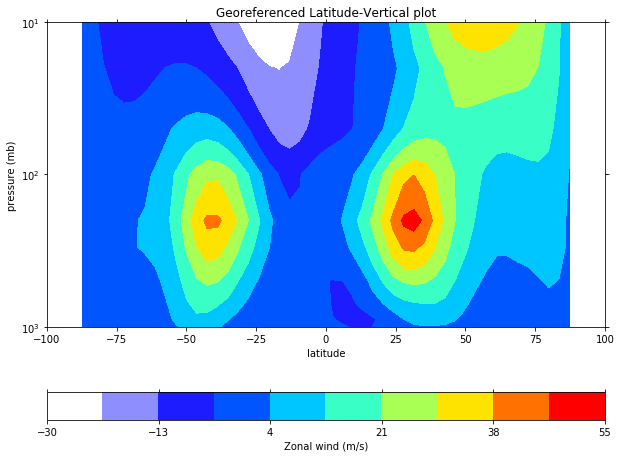
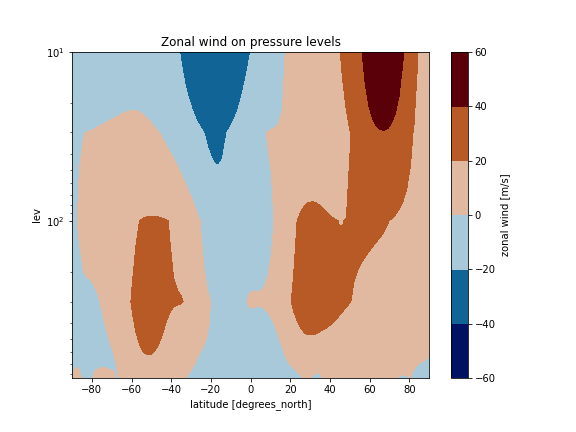
update vertical interpolation in episode 6

diff --git a/_episodes/06-vertical_interpolation.md b/_episodes/06-vertical_interpolation.md
@@ -3,7 +3,7 @@ title: "From hybrid sigma-pressure (model) levels to pressure levels"
 teaching: 0
 exercises: 0
 questions:
-- "How to interpolate pressure levels?"
+- "How to interpolate data to pressure levels?"
 objectives:
 - "Learn to interpolate data to pressure levels"
 keypoints:
@@ -17,10 +17,6 @@ keypoints:
 
 PyNGL (Python NCL Graphics Library) is a python interface with the same core graphics as NCL (NCAR Command Language) for visualization and data processing.
 
-PyNIO (Python Interface for Geoscientific Data Input/Output) is a python package that allows read and/or write access to a variety of data formats using an interface modeled on netCDF.
-
-Note: These PyNGL & PyNIO libraries are still under development and therefore not yet fully operational (i.e., not all the functionalities were implemented).
-
 In this section we are going to use [Ngl.vinth2p](https://www.pyngl.ucar.edu/Functions/Ngl.vinth2p.shtml). 
 
 - This PyNGL function interpolates CESM hybrid coordinates (i.e., model levels) to pressure coordinates.
@@ -32,67 +28,85 @@ In this section we are going to use [Ngl.vinth2p](https://www.pyngl.ucar.edu/Fun
   - If the input data (i.e., to be interpolated) is on midlevels, then hyam/hybm coefficients should be supplied; 
   - If the input data is on interfaces, then hyai/hybi coefficients should be supplied.
 
-Warning: the unit for psrf *(the surface pressure at each grid point)* is **Pascals (Pa)** whereas the unit for pnew *(lists of output pressure levels)* and p0 *(scalar value equal to surface reference pressure)* is **millibars (mb)**. 
+
+> ## Warning
+> The unit for psrf *(the surface pressure at each grid point)* is **Pascals (Pa)** whereas the unit for pnew *(lists of output pressure levels)* and p0 *(scalar value equal to surface reference pressure)* is **millibars (mb)**. 
+>
+{: .callout}
 
 ~~~
+# Python package that makes working with labelled multi-dimensional arrays simple and efficient
 import Ngl
-import Nio
 import os
 import xarray as xr
 import numpy as np
-import matplotlib as mpl
-
-# python package for plotting maps, 2D plot, etc.
-import psyplot.project as psy
-
-# the next line is only necessary when running within a Jupyter notebook
-# and allows to inline plots in the Jupyter notebook
+import cartopy.crs as ccrs
+import matplotlib.pyplot as plt
 %matplotlib inline
 
-# Set figure size for all our plots
-mpl.rcParams['figure.figsize'] = [10., 8.]
-# get your username from the environment variable USER
-username = os.getenv('USER')
-# specify the path where your test simulation is stored
-path = '/opt/uio/GEO4962/' + username + '/f2000.T31T31.test/atm/hist/'
-filename = path + 'f2000.T31T31.test.cam.h0.0009-01.nc'
+path = 'shared-ns1000k/GEO4962/outputs/runs/F2000climo.f19_g17.control/atm/hist/'
+filename = path + 'F2000climo.f19_g17.control.cam.h0.0009-01.nc'
 print(filename)
 
-#  Open the netCDF file containing the input data.
-cfile = Nio.open_file(filename,"r")
+# load netcdf file into an xarray dataset
+ds = xr.open_dataset(filename, decode_times=True)
+
+#  Extract the desired variables (need numpy arrays for vertical interpolation)
+hyam = ds["hyam"][:]
+hybm = ds["hybm"][:]
+T    = (ds["T"][:,:,:,:])
+psrf = (ds["PS"][:,:,:])
+P0mb =  0.01*ds["P0"].values
+
+lats = ds["lat"][:]
+lons = ds["lon"][:]
 
 #  Define the output pressure levels.
 pnew = [850.]
-
-#  Extract the desired variables.
-hyam = cfile.variables["hyam"][:]
-hybm = cfile.variables["hybm"][:]
-T    = (cfile.variables["T"][:,:,:,:])
-psrf = (cfile.variables["PS"][:,:,:])
-P0mb =  0.01*cfile.variables["P0"].get_value()
-
-lats = cfile.variables["lat"][:]
-lons = cfile.variables["lon"][:]
-
 #  Do the interpolation.
 intyp = 1                              # 1=linear, 2=log, 3=log-log
 kxtrp = False                          # True=extrapolate (when the output pressure level is outside of the range of psrf)
   
+# Vertical interpolation
+
 Tnew = Ngl.vinth2p(T,hyam,hybm,pnew,psrf,intyp,P0mb,1,kxtrp)
 
 Tnew[Tnew==1e30] = np.NaN
 
-T850=xr.Dataset({'T850': (('lats','lons'), Tnew[0,0,:,:])},
-                {'lons':  lons, 'lats':  lats})
+# Create new xarray Dataset
 
-# plot using psyplot
+dset_p = xr.Dataset({'T850': (('lat','lon'), Tnew[0,0,:,:])},
+                  {'lon':  lons, 'lat':  lats})
+dset_p.T850.attrs['units'] = 'K'
+dset_p.T850.attrs['long_name'] = "Temperature"
+dset_p.T850.attrs['standard_name'] = 'T'
 
-psy.plot.mapplot(T850, name='T850', title='Temperature (K) at 850 mb')
+# Plotting
+fig = plt.figure(figsize=(15, 5))
+ax = plt.axes(projection=ccrs.PlateCarree())
+
+dset_p.T850.plot(ax=ax, 
+           transform=ccrs.PlateCarree(),
+	   cmap=load_cmap('vik'))
+
+ax.coastlines()
+plt.title(ds.time.values[0].strftime("%B year %Y"))
 ~~~
 {: .language-python}
 
 <img src="../fig/T_F2000_CAM5_T31T31_test-0009-01_850mb.png">
 
+
+> ## Loading colormaps
+> In your jupyter notebook, you can load additional/customized colormap using the following statment:
+> ~~~
+> %run load_cmap.py
+> ~~~
+> {: .language-bash}
+>
+> with [load_cmap.py](https://raw.githubusercontent.com/NordicESMhub/GEO4962/gh-pages/code/load_cmap.py).
+>
+{: .callout}
 
 > ## Create a map plot for the zonal wind (U) at **850 mb**
 > 
@@ -100,22 +114,36 @@ psy.plot.mapplot(T850, name='T850', title='Temperature (K) at 850 mb')
 >
 > > ## Solution
 > > ~~~
-> > import xarray as xr
-> > import numpy as np
-> >  
 > > pnew = [850.]
+> >
+> > #  Do the interpolation.
+> > intyp = 1                              # 1=linear, 2=log, 3=log-log
+> > kxtrp = False                          # True=extrapolate (when the output pressure level is outside of the range of psrf)
+> >   
+> > U    = (ds["U"][:,:,:,:])
 > > 
-> > U    = (cfile.variables["U"][:,:,:,:])
 > > UonP = Ngl.vinth2p(U,hyam,hybm,pnew,psrf,intyp,P0mb,1,kxtrp)
-> >  
+> >    
 > > ntime, output_levels, nlat, nlon = UonP.shape
 > > 
 > > UonP[UonP==1e30] = np.NaN
-> > U850=xr.Dataset({'U850': (('lat','lon'), UonP[0,0,:,:])},
-> >                 {'lat':  lats, 'lon':  lons})
 > > 
-> > # plot using psyplot
-> > psy.plot.mapplot(U850, name='U850', title='Zonal wind (m/s) at 850 mb')
+> > dset_p=xr.Dataset({'U850': (('lat','lon'), UonP[0,0,:,:])},
+> >                   {'lat':  lats, 'lon':  lons})
+> > dset_p.U850.attrs['units'] = 'm/s'
+> > dset_p.U850.attrs['long_name'] = "zonal wind"
+> > dset_p.U850.attrs['standard_name'] = 'U'
+> > fig = plt.figure(figsize=(15, 5))
+> > ax = plt.axes(projection=ccrs.PlateCarree())
+> > 
+> > dset_p.U850.plot(ax=ax, 
+> >            transform=ccrs.PlateCarree(),
+> >            cmap=load_cmap('broc') 
+> >            )
+> > 
+> > ax.coastlines()
+> > plt.title(ds.time.values[0].strftime("%B year %Y"))
+> > 
 > > ~~~
 > > {: .language-python}
 > >
@@ -136,7 +164,7 @@ import xarray as xr
 import numpy as np
 import matplotlib.pyplot as plt
 
-pnew = [1000., 900., 850., 700., 600, 500., 400., 300., 100., 30., 10.]
+pnew = [850., 700., 600, 500., 400., 300., 100., 30., 10.]
 
 intyp = 1                             # 1=linear, 2=log, 3=log-log
 kxtrp = True                          # True=extrapolate
@@ -144,7 +172,6 @@ kxtrp = True                          # True=extrapolate
 UonP = Ngl.vinth2p(U,hyam,hybm,pnew,psrf,intyp,P0mb,1,kxtrp)
 
 ntime, output_levels, nlat, nlon = UonP.shape
-
 ~~~
 {: .language-python}
 
@@ -160,22 +187,22 @@ UonP[UonP==1e30] = np.NaN
 print(UonP.mean(axis=3).shape,lats.shape)
 Umean=xr.Dataset({'U': (('lev','lat'), UonP.mean(axis=3)[0,:,:])},
                  {'lev':  np.asarray(pnew), 'lat':  lats})
+Umean.U.attrs['units'] = 'm/s'
+Umean.U.attrs['long_name'] = "zonal wind"
+Umean.U.attrs['standard_name'] = 'U'
 ~~~
 {: .language-python}
 		
 We can now plot *Umean*:
 
 ~~~
-psy.plot.plot2d(Umean, name='U', plot='contourf', 
-                title="Georeferenced Latitude-Vertical plot", 
-                clabel="Zonal wind (m/s)",
-                xlabel='latitude',
-                ylabel='pressure (mb)')
-                
+fig = plt.figure(figsize=(8, 6))
+Umean.U.plot.contourf(cmap=load_cmap('vik'))
 plt.ylim(plt.ylim()[::-1])
-plt.yscale('symlog')
-plt.ylim(bottom=1000)
-plt.ylim(top=10)
+plt.yscale('log')
+plt.ylim(top=10.)
+plt.ylim(bottom=850.)
+plt.title("Zonal wind on pressure levels")
 ~~~
 {: .language-python}
 
@@ -200,23 +227,28 @@ plt.ylim(top=10)
 > > 
 > > intyp = 1                             # 1=linear, 2=log, 3=log-log
 > > kxtrp = True                          # True=extrapolate
-> >
+> > 
 > > Tnew = Ngl.vinth2p(T,hyam,hybm,pnew,psrf,intyp,P0mb,1,kxtrp)
 > > 
 > > ntime, output_levels, nlat, nlon = Tnew.shape
 > > 
 > > Tnew[Tnew==1e30] = np.NaN
-> >
+> > 
 > > Tmean=xr.Dataset({'T': (('lev','lat'), Tnew.mean(axis=3)[0,:,:])},
 > >                  {'lev':  np.asarray(pnew), 'lat':  lats})
+> > Tmean.T.attrs['units'] = 'K'
+> > Tmean.T.attrs['long_name'] = "Temperature"
+> > Tmean.T.attrs['standard_name'] = 'T'
 > > 
-> > psy.plot.plot2d(Tmean, name='T', plot='contourf')
+> > fig = plt.figure(figsize=(8, 6))
+> > Tmean.T.plot.contourf(cmap=load_cmap('vik'))
 > > # Invert vertical axis
 > > plt.ylim(plt.ylim()[::-1])
 > > plt.ylim(top=10.)
-> > plt.ylim(bottom=900.)
+> > plt.ylim(bottom=850.)
 > > plt.xlim(left=-90)
 > > plt.xlim(right=90)
+> > plt.title("Georeferenced Latitude-Vertical plot \n Temperature on pressure levels")
 > > ~~~
 > > {: .language-python}
 > >
@@ -224,89 +256,6 @@ plt.ylim(top=10)
 > >
 > {: .solution}
 {: .challenge}
-
-Here, we show you how to use [ncl](https://www.ncl.ucar.edu/Document/Tools/) to interpolate T and U fields to 
-a list of pressure levels and store the resulting field in a new netCDF file.
-
-The main advantage of using *ncl* as opposed to the current (non-operational) PyNGL and PyNIO is that you have access to an improved interpolation routine called *vinth2p_ecmwf* which interpolates CESM hybrid coordinates to pressure coordinates but uses an ECMWF formulation to **extrapolate** values below ground.
-
-> ## First we need to get the ncl script [vertical_interpolation.ncl](https://raw.githubusercontent.com/NordicESMhub/GEO4962/gh-pages/code/vertical_interpolation.ncl) 
-> For instance using the wget command (on the Jupyterhub Terminal):
-> ~~~
-> (Be careful: do not forget to change directory first by using cd /opt/uio/GEO4962/$USER/analysis)
->
-> wget https://raw.githubusercontent.com/NordicESMhub/GEO4962/gh-pages/code/vertical_interpolation.ncl
-> ~~~
-> {: .language-bash}
->
-{: .callout}
-
-
-~~~
-press = "'lev_p=(/1000.0,900.,850.,700.,500.,300.,200.,100.,50.,20.,10./)'"
-cmd = "ncl " + press + " 'input_filename=" + '"' + filename + '"' 
-cmd = cmd + "' 'output_filename=" + '"f2000.T31T31.test.cam.h0.0009-01_pl.nc"' 
-cmd = cmd + "' vertical_interpolation.ncl"
-
-# run ncl command
-import os
-returned_value = os.system(cmd)
-print(returned_value)
-~~~
-{: .language-python}
-
-A *returned value* different from **0** means that there has been an error somewhere (which will have to be fixed), otherwise we can plot the temperature values read from the newly created file:
-
-~~~
-import xarray as xr
-
-ds = psy.open_dataset('f2000.T31T31.test.cam.h0.0009-01_pl.nc')
-
-# Create a new dataset over latitudes and levels
-# where we select time=0 and lon=0
-T_cross_section = xr.Dataset({'T': ds['T'].isel(time=0).mean(dim='lon')},
-                             {'lat':  ds.lat, 'lev': ds.lev_p}, 
-                             attrs = ds['T'].attrs)
-
-
-# Plot
-psy.plot.plot2d(T_cross_section, name='T', plot='contourf', 
-                title="Georeferenced Latitude-Vertical plot", 
-                clabel="Temperature (K)",
-                xlabel='latitude',
-                ylabel='pressure (mb)')
-
-plt.ylim(plt.ylim()[::-1])
-plt.yscale('symlog')
-plt.ylim(bottom=1000)
-plt.ylim(top=10)
-~~~
-{: .language-python}
-
-<img src="../fig/T_F2000_CAM5_T31T31_test-0009-01_pressure.png"> 
-
-And U:
-
-~~~
-U_cross_section = xr.Dataset({'U': ds['U'].isel(time=0).mean(dim='lon')},
-                             {'lat':  ds.lat, 'lev': ds.lev_p}, 
-                             attrs = ds['U'].attrs)
-
-psy.plot.plot2d(U_cross_section, name='U', plot='contourf', 
-                title="Georeferenced Latitude-Vertical plot", 
-                clabel="Zonal wind (m/s)",
-                xlabel='latitude',
-                ylabel='pressure (mb)')
-                
-plt.ylim(plt.ylim()[::-1])
-plt.yscale('symlog')
-plt.ylim(bottom=1000)
-plt.ylim(top=10)
-~~~
-{: .language-python}
-
-<img src="../fig/U_F2000_CAM5_T31T31_test-0009-01_pressure.png"> 
-
 
 {% include links.md %}
 

diff --git a/_episodes/05-psyplot-simple_case.md b/_episodes/05-psyplot-simple_case.md
@@ -211,7 +211,7 @@ Now we can create a map. We plot **TS** (Surface temperature) by specifying the 
 # get your username from the environment variable USER
 username = os.getenv('USER')
 # specify the path where your test simulation is stored
-path = 'shared-ns1000k/GEO4962/' + username + '/F2000climo.f19_g17.test/atm/hist/'
+path = 'shared-ns1000k/GEO4962/outputs/runs/F2000climo.f19_g17.control/atm/hist'
 filename = path + 'F2000climo.f19_g17.control.cam.h0.0009-01.nc'
 print(filename)
 
